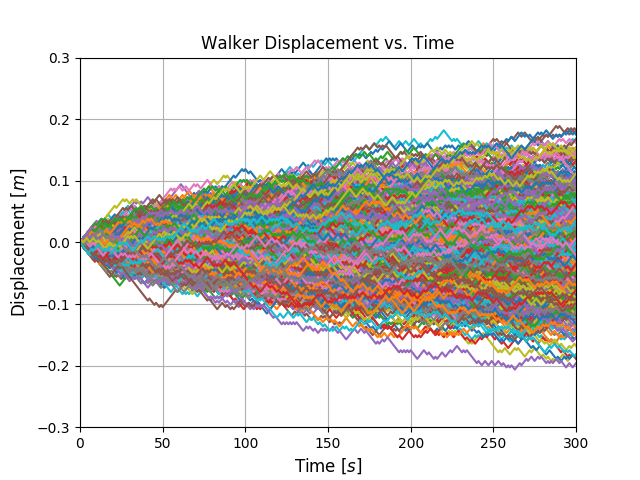
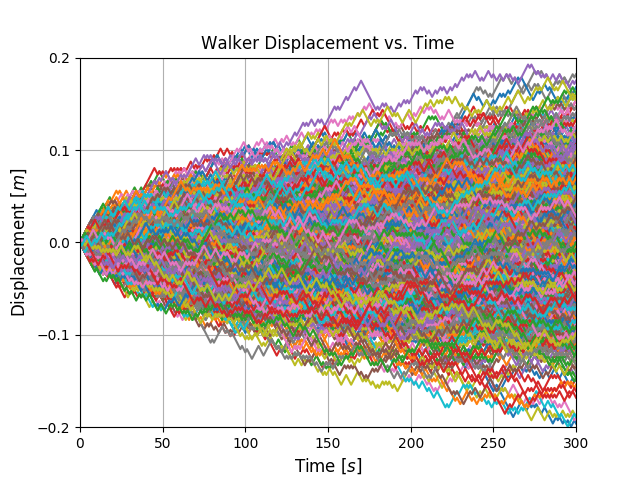
Completed solutions for homework 3.

diff --git a/Solutions/Assignment 03 - Homework 3/HW3_Erick_Shepherd.py b/Solutions/Assignment 03 - Homework 3/HW3_Erick_Shepherd.py
@@ -90,13 +90,14 @@ direction = lambda: (-1) ** np.random.randint(0, 2)
 step      = lambda: round(dL * direction(), 4)
 path      = lambda: [step() if j > 0 else 0 for j in range(Ns + 1)]
 
+# The 1D spatial and temporal displacements of each walker at a given time step.
 X = np.asarray([np.cumsum(path()) for i in range(Nw)]).T
 t = np.arange(0, (Ns + 1) * dt)
 
 x_delta = 50 * dt # Time in seconds.
 
 y_delta = 100 / 1000 # Displacement in meters.
-y_bound = np.ceil(np.max(np.abs(X)) / y_delta) * y_delta
+y_limit = np.ceil(np.max(np.abs(X)) / y_delta) * y_delta
 
 plt.figure()
 plt.plot(t, X)
@@ -104,28 +105,34 @@ plt.title("Walker Displacement vs. Time")
 plt.xlabel(r"Time [$s$]",         fontsize = "large")
 plt.ylabel(r"Displacement [$m$]", fontsize = "large")
 plt.xticks(np.arange(0, t[-1] + x_delta, x_delta))
-plt.yticks(np.arange(-y_bound, y_bound + y_delta, y_delta))
+plt.yticks(np.arange(-y_limit, y_limit + y_delta, y_delta))
 plt.xlim(0, Ns)
-plt.ylim(-y_bound, y_bound)
+plt.ylim(-y_limit, y_limit)
 plt.grid()
-
 
 """
 Problem information:
 --------------------------------------------------------------------------------
     Problem:        2
-    Points:         10
+    Points:         20
     Weight:         1.00
-    Percentage:     10.00%
+    Percentage:     20.00%
     
-    Description:    The function  max_of_three() will only work for three 
-                    numbers, but suppose we have many more numbers, or suppose 
-                    we cannot tell in advance how many numbers there will be?  
-                    Write a function max_in_list() that takes a list of numbers 
-                    and returns the largest one.
+    Description:    Compute the mean displacement and the mean square 
+                    displacement of all walkers at each step. Then, in the same 
+                    figure, plot the mean displacement and the root mean square 
+                    (RMS) displacement.
 """
 
+X_mean = np.abs(np.mean(X, axis = 1))
+X_rms  = np.sqrt(np.mean(np.power(X, 2), axis = 1))
 
+plt.figure()
+plt.title("Displacement vs. Time")
+plt.plot(t, X_mean, c = "b", label = r"${\langle}{X}{\rangle}_i$")
+plt.plot(t, X_rms,  c = "k", label = r"$\sqrt{{\langle}{X}{\rangle}_i}$")
+plt.xlabel(r"Time [$s$]",         fontsize = "large")
+plt.ylabel(r"Displacement [$m$]", fontsize = "large")
 
 """
 Problem information:
@@ -135,16 +142,174 @@ Problem information:
     Weight:         1.00
     Percentage:     10.00%
     
-    Description:    Define two functions sum() and a function multiply() which
-                    respectively sum and multiply all numbers in a list of 
-                    numbers. For example, sum([1, 2, 3, 4]) should return 10, 
-                    and multiply([1, 2, 3, 4]) should return 24.
-                    
-    Author's notes: Be wary when implementing something like this in situations
-                    outside of the classroom; "sum" is a built-in function in
-                    Python, and defining another function by the same name
-                    will override the built-in function by that name in the
-                    scope in which it is defined. - Erick Shepherd
+    Description:    In the same figure as problem 2, show that the RMS 
+                    displacement is approximately the square root of 2Dt, where 
+                    D is the diffusion coefficient D = (dL)^2 / (2dt).
 """
+
+D = dL ** 2 / (2 * dt)
+X_analytical = np.sqrt(2 * D * t)
+
+X_series = np.concatenate((X_mean, X_rms, X_analytical))
+
+y_delta       = 10 / 1000 # Displacement in meters.
+y_lower_limit = np.floor(np.min(X_series) / y_delta) * y_delta
+y_upper_limit = np.ceil(np.max(X_series)  / y_delta) * y_delta
+
+plt.plot(t, X_analytical, c = "r", label = r"$\sqrt{2Dt}$")
+plt.xlim(np.min(t), np.max(t))
+plt.ylim(y_lower_limit, y_upper_limit)
+plt.legend()
+plt.grid()
+
+"""
+Problem information:
+--------------------------------------------------------------------------------
+    Problem:        4
+    Points:         20
+    Weight:         1.00
+    Percentage:     20.00%
+    
+    Description:    Compute the normalized number density function of walkers at
+                    each time step in the interval x to x + dx. See the file
+                    HW3_corrected.pdf for more information.
+    
+    
+"""
+
+# Let "experimental normalized number density function" be denoted by "ENNDF".
+def ENNDF(x = 0, t = 150, dx = 3 * dL):
+    
+    dNw = None
+    
+    # For a constant time t:
+    if isinstance(x, np.ndarray) and not isinstance(t, np.ndarray):
+        
+        dNw = np.zeros(x.size) # Walkers in the displacement interval.
+        
+        for index, position in enumerate(x):
+            
+            # Author's note:
+            #   dx is divided by 2 to ensure that the interval is symmetric 
+            #   about the position.
+            #    - Erick Shepherd
+            upper_bound = position + dx / 2
+            lower_bound = position - dx / 2
+            
+            interval = lambda Y: (lower_bound <= Y) & (Y <= upper_bound)
+            
+            Y = X[t]
+            
+            dNw[index] = Y[interval(Y)].size
+                
+    # For a constant position x:
+    elif not isinstance(x, np.ndarray) and isinstance(t, np.ndarray):
+       
+        # Author's note:
+        #   dx is divided by 2 to ensure that the interval is symmetric about x.
+        #    - Erick Shepherd
+        upper_bound = x + dx / 2
+        lower_bound = x - dx / 2
+
+        interval = lambda Y: (lower_bound <= Y) & (Y <= upper_bound)
+    
+        dNw = np.zeros(Ns + 1) # Walkers in the displacement interval.
+    
+        for step, time in enumerate(t):
+        
+            Y = X[step]
+            
+            dNw[step] = Y[interval(Y)].size
+                
+    # For invalid input:
+    else:
+        
+        raise ValueError("Either x must be an array and t must be a scalar," + \
+                         " or x must be a scalar and t must be an array.")
+    
+    P = dNw / Nw # The probability of finding a walker in the interval.
+    
+    return P
+
+"""
+Problem information:
+--------------------------------------------------------------------------------
+    Problem:        5
+    Points:         40
+    Weight:         1.00
+    Percentage:     40.00%
+    
+    Description:    Show that the normalized number density function from
+                    problem 4 agrees with the analytical solution of the 
+                    diffusion equation. You can plot both functions as either
+                    functions of time at a particular displacement or functions
+                    of displacement at a particular time.
+"""
+
+# Let "analytical normalized number density function" be denoted by "ANNDF".
+def ANNDF(x, t):
+    
+    P = np.exp((-x ** 2) / (4 * D * t)) / np.sqrt(4 * np.pi * D * t)
+    
+    return P
+
+dx = 3 * dL
+
+# Solution as a function of position:
+x_bound = np.ceil(np.max(np.abs(X)) / dx) * dx
+x       = np.round(np.arange(-x_bound, x_bound + dx, dx), 4)
+t       = 150
+
+# Let "position function normalization constant" be denoted by "PFNC".
+PFNC = np.max(ANNDF(x, 1))
+
+P_experimental = ENNDF(x, t, dx)
+P_analytical   = ANNDF(x, t) / PFNC
+
+P_series = np.concatenate((P_experimental, P_analytical))
+
+x_delta = 0.1
+x_limit = np.ceil(np.max(np.abs(x)) / x_delta) * x_delta
+
+y_delta       = 0.1
+y_upper_limit = np.ceil(np.max(P_series) / y_delta) * y_delta
+
+plt.figure()
+plt.plot(x, P_experimental, c = "k", label = "Experimental")
+plt.plot(x, P_analytical,   c = "r", label = "Analytical")
+plt.suptitle("Walker Number Density vs. Position")
+plt.title(r"$t={}$ s, $dx={}$ m".format(t, dx))
+plt.xlabel(r"Position [$m$]")
+plt.ylabel(r"Normalized Number Density")
+plt.xlim(-x_limit, x_limit)
+plt.ylim(0, y_upper_limit)
+plt.legend()
+plt.grid()
+
+# Solution as a function of time:
+x = 0
+t = np.arange(0, (Ns + 1) * dt)
+
+# Let "time function normalization constant" be denoted by "PFNC".
+TFNC = np.max(ANNDF(0, t[t != 0]))
+
+# Author's note:
+#   Masking the time dimension with t[t != 0] prevents division by zero in the 
+#   analytical solution.
+#    - Erick Shepherd
+P_experimental = ENNDF(x, t, dx)
+P_analytical   = ANNDF(x, t[t != 0]) / TFNC
+
+plt.figure()
+plt.plot(t,         P_experimental, c = "k", label = "Experimental")
+plt.plot(t[t != 0], P_analytical,   c = "r", label = "Analytical")
+plt.suptitle("Walker Number Density vs. Time")
+plt.title(r"$x={}$ m, $dx={}$ m".format(x, dx))
+plt.xlabel(r"Time [$s$]")
+plt.ylabel(r"Normalized Number Density")
+plt.xlim(t[0], t[-1])
+plt.ylim(0, 1)
+plt.legend()
+plt.grid()
 
 plt.show()
